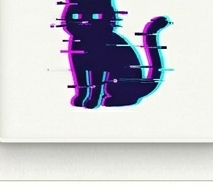
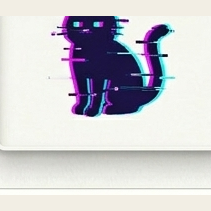
fix: 8가지 사용자 피드백 반영 (1·2·3·4·5·7·8)
1) 가장 인기 있는 사진 카드 — h-44 wide → aspect-[3/4] portrait. 한 장 제대로.
   누르면 작품 디테일 (이미 동작). 명조 italic 제목.

2) 페르소나 PNG 재크롭 — 카드 외곽 안쪽 + 정사각 캔버스 가운데 paste.
   머리/더듬이 안 잘리고 PDF 톤 카드 베이지 배경 (#f2eee4) 통일.
   SettingsSheet "10자아" → "냥이 페르소나" 라벨 변경.

3) 일일 키워드 (확인) — daily-keyword.js는 이미 날짜 기반 deterministic.
   50개 풀에서 매일 자동 추천 (4/28 → 같은 키워드 모두에게).

4) 별자리 시각 보강 — NearbyConstellation.
   흰 배경 → radial-gradient 어두운 밤하늘 (#232a3e → #0a0c14).
   별 8개 트윙클 애니메이션 (3.6s ease).
   가운데 카든냥 글로우 펄스 (3.2s).
   주변 사진 photo-glow 애니메이션 (각자 다른 delay).
   거리 링/라벨 흰색 톤.

5) 필름 탭 통합 — '롤 / 일주일 / 월별' → '롤 / 캘린더' (월별 그리드).
   sessionStorage 'week' 저장된 사용자 자동 'roll' fallback.

7) 프로필 사진 vs 인기 사진 겹침 해결 —
   stats.topArtwork.id === profilePhoto.id면 인기 사진 카드 숨김.

8) 봇 인물 사진 배제 — linen 봇 작품 2개 교체.
   '아빠와 딸의 뒷모습' → '닫힌 셔터의 텍스처'
   '버스 정류장의 둘' → '버스 정류장의 빈 의자'

(이슈 6 — 4컷 그리드/인기 사진 분리 — 1·7과 함께 처리됨)

Changed region(s): [[0.2275, 0.0, 0.8246, 0.5882], [0.0, 0.6952, 1.0, 0.8556], [0.0, 0.9626, 1.0, 0.9893]]

diff --git a/src/components/NearbyConstellation.jsx b/src/components/NearbyConstellation.jsx
@@ -58,33 +58,95 @@ export default function NearbyConstellation({
     return { ...p, x, y };
   });
 
+  // 별 흩뿌림 — 배경 장식 (deterministic 위치)
+  const stars = [
+    [size * 0.10, size * 0.18, 1.4, 0.7, '0s'],
+    [size * 0.86, size * 0.12, 2, 0.85, '0.4s'],
+    [size * 0.92, size * 0.40, 1.2, 0.6, '0.8s'],
+    [size * 0.06, size * 0.55, 1.8, 0.7, '1.2s'],
+    [size * 0.18, size * 0.88, 1.4, 0.6, '1.6s'],
+    [size * 0.78, size * 0.92, 1.6, 0.7, '2.0s'],
+    [size * 0.95, size * 0.78, 1.1, 0.5, '0.6s'],
+    [size * 0.04, size * 0.30, 1.3, 0.6, '1.4s'],
+  ];
+
   return (
-    <div className="relative mx-auto select-none" style={{ width: size, height: size }}>
+    <div
+      className="relative mx-auto select-none overflow-hidden rounded-[24px]"
+      style={{
+        width: size,
+        height: size,
+        background: 'radial-gradient(circle at 50% 35%, #232a3e 0%, #161927 55%, #0a0c14 100%)',
+      }}
+    >
+      <style>{`
+        @keyframes kadennyang-twinkle {
+          0%, 100% { opacity: 0.35; transform: scale(0.85); }
+          50% { opacity: 1; transform: scale(1.15); }
+        }
+        @keyframes kadennyang-glow {
+          0%, 100% { opacity: 0.5; transform: scale(1); }
+          50% { opacity: 0.85; transform: scale(1.08); }
+        }
+        @keyframes kadennyang-photo-glow {
+          0%, 100% { box-shadow: 0 0 0 2px rgba(255,255,255,0.85), 0 0 12px rgba(255,220,150,0.18); }
+          50% { box-shadow: 0 0 0 2px rgba(255,255,255,0.95), 0 0 22px rgba(255,220,150,0.45); }
+        }
+      `}</style>
+
+      {/* 별 흩뿌림 */}
+      {stars.map(([sx, sy, sr, opacity, delay], i) => (
+        <span
+          key={i}
+          className="pointer-events-none absolute rounded-full bg-white"
+          style={{
+            left: sx - sr,
+            top: sy - sr,
+            width: sr * 2,
+            height: sr * 2,
+            opacity,
+            animation: `kadennyang-twinkle 3.6s ease-in-out infinite`,
+            animationDelay: delay,
+          }}
+        />
+      ))}
+
       {/* 거리 링 */}
-      <svg width={size} height={size} className="absolute inset-0 pointer-events-none">
-        <g stroke="var(--border)" fill="none" strokeDasharray="2 5">
+      <svg width={size} height={size} className="pointer-events-none absolute inset-0">
+        <g stroke="rgba(255,255,255,0.18)" fill="none" strokeDasharray="2 5">
           <circle cx={half} cy={half} r={radiusFor(500)} />
           <circle cx={half} cy={half} r={radiusFor(2000)} />
           <circle cx={half} cy={half} r={maxR} />
         </g>
-        <g fill="var(--text-faint)" fontSize="9.5" fontWeight="600" letterSpacing="0.04em">
+        <g fill="rgba(255,255,255,0.55)" fontSize="9.5" fontWeight="600" letterSpacing="0.04em">
           <text x={half + 4} y={half - radiusFor(500) - 3}>500m</text>
           <text x={half + 4} y={half - radiusFor(2000) - 3}>2km</text>
           <text x={half + 4} y={half - maxR - 3}>5km+</text>
         </g>
       </svg>
 
-      {/* 가운데 카든냥 = 내 위치 */}
+      {/* 가운데 카든냥 = 내 위치 — 글로우 펄스 */}
+      <span
+        className="pointer-events-none absolute z-10 rounded-full"
+        style={{
+          left: half - 60,
+          top: half - 60,
+          width: 120,
+          height: 120,
+          background: 'radial-gradient(circle, rgba(255,220,150,0.45) 0%, rgba(255,220,150,0) 70%)',
+          animation: 'kadennyang-glow 3.2s ease-in-out infinite',
+        }}
+      />
       <div
-        className="absolute z-20 flex items-center justify-center rounded-full bg-[var(--ink)] text-[var(--bg)] shadow-[0_6px_18px_rgba(0,0,0,0.18)]"
+        className="absolute z-20 flex items-center justify-center rounded-full bg-white text-[var(--ink)] shadow-[0_8px_24px_rgba(0,0,0,0.4)]"
         style={{ left: half - 40, top: half - 40, width: 80, height: 80 }}
         aria-label="내 위치"
       >
         <CatPhotographer size={54} />
       </div>
 
-      {/* 주변 사진 */}
-      {positioned.map((p) => {
+      {/* 주변 사진 — 별처럼 반짝임 */}
+      {positioned.map((p, i) => {
         const photoSize = 56;
         return (
           <button
@@ -95,11 +157,12 @@ export default function NearbyConstellation({
             style={{ left: p.x - photoSize / 2, top: p.y - photoSize / 2 }}
           >
             <div
-              className="overflow-hidden rounded-full bg-[var(--surface-2)]"
+              className="overflow-hidden rounded-full bg-white/10"
               style={{
                 width: photoSize,
                 height: photoSize,
-                boxShadow: '0 0 0 2px var(--bg), 0 4px 10px rgba(0,0,0,0.2)',
+                animation: `kadennyang-photo-glow ${3.2 + (i % 4) * 0.4}s ease-in-out infinite`,
+                animationDelay: `${(i * 0.3) % 1.6}s`,
               }}
             >
               {p.imageUrl ? (
@@ -113,7 +176,7 @@ export default function NearbyConstellation({
                 <div className="h-full w-full" />
               )}
             </div>
-            <span className="mt-1 whitespace-nowrap rounded-full bg-[var(--ink)] px-1.5 py-[2px] text-[9px] font-bold leading-none text-[var(--bg)]">
+            <span className="mt-1 whitespace-nowrap rounded-full bg-white/95 px-1.5 py-[2px] text-[9px] font-bold leading-none text-[var(--ink)]">
               {formatDistance(p.distance)}
             </span>
           </button>

diff --git a/src/screens/PersonExhibition.jsx b/src/screens/PersonExhibition.jsx
@@ -358,26 +358,38 @@ export default function PersonExhibition({ userId: viewedId, setScreen, openArtw
           )}
         </section>
 
-        {stats.topArtwork && stats.totalHype > 0 && (
-          <section className="rounded-[24px] bg-[var(--surface)] p-3 shadow-[0_0_0_1px_var(--border)]">
-            <button
-              type="button"
-              onClick={() => openArtwork(stats.topArtwork.id)}
-              className="block w-full text-left"
-            >
-              <div className="mb-2 flex items-center justify-between px-1">
-                <p className="text-[10px] font-semibold tracking-[0.16em] text-[var(--text-muted)]">가장 인기 있는 사진</p>
-                <span className="inline-flex items-center gap-1 rounded-full bg-[var(--ink)] px-2 py-0.5 text-[10px] font-semibold text-white">
-                  <IconHype size={11} filled /> {getHypeCount(stats.topArtwork.id)}
-                </span>
-              </div>
-              <div className="overflow-hidden rounded-[18px]">
-                <ImageBox src={stats.topArtwork.imageUrl} alt={stats.topArtwork.title} className="h-44" />
-              </div>
-              <p className="mt-2 px-1 text-sm font-bold tracking-[-0.04em]">{stats.topArtwork.title || '제목 없음'}</p>
-            </button>
-          </section>
-        )}
+        {/* 가장 인기 있는 사진 — 프로필 사진(25번째 or 첫 사진)과 겹치지 않을 때만 표시.
+            한 장 제대로 보이게 portrait 3:4. 누르면 작품 디테일. */}
+        {(() => {
+          const profilePhotoId = (twentyFiveArt || works[0])?.id;
+          const showTopArt =
+            stats.topArtwork &&
+            stats.totalHype > 0 &&
+            stats.topArtwork.id !== profilePhotoId;
+          if (!showTopArt) return null;
+          return (
+            <section className="rounded-[24px] bg-[var(--surface)] p-3 shadow-[0_0_0_1px_var(--border)]">
+              <button
+                type="button"
+                onClick={() => openArtwork(stats.topArtwork.id)}
+                className="block w-full text-left"
+              >
+                <div className="mb-2 flex items-center justify-between px-1">
+                  <p className="text-[10px] font-semibold tracking-[0.16em] text-[var(--text-muted)]">가장 인기 있는 사진</p>
+                  <span className="inline-flex items-center gap-1 rounded-full bg-[var(--ink)] px-2 py-0.5 text-[10px] font-semibold text-white">
+                    <IconHype size={11} filled /> {getHypeCount(stats.topArtwork.id)}
+                  </span>
+                </div>
+                <div className="overflow-hidden rounded-[18px]">
+                  <ImageBox src={stats.topArtwork.imageUrl} alt={stats.topArtwork.title} className="aspect-[3/4]" />
+                </div>
+                <p className="font-display mt-3 px-1 text-center text-[16px] font-extrabold italic tracking-[-0.05em]">
+                  {stats.topArtwork.title || '제목 없음'}
+                </p>
+              </button>
+            </section>
+          );
+        })()}
 
         <section>
           <div className="mb-3 flex items-center justify-between">

diff --git a/src/lib/bot-seed.js b/src/lib/bot-seed.js
@@ -99,9 +99,9 @@ const BOT_ARTWORK_BLUEPRINTS = [
   { user_id: 'bot:linen', title: '버스가 지나가고 남은 자리', daily_vision: '천천히', url: 'https://images.unsplash.com/photo-1473093295043-cdd812d0e601?auto=format&fit=crop&w=900&q=80', d: 1 },
   { user_id: 'bot:linen', title: '어떤 집의 창문',           daily_vision: '동네',  url: 'https://images.unsplash.com/photo-1496317899792-9d7dbcd928a1?auto=format&fit=crop&w=900&q=80', d: 5 },
   { user_id: 'bot:linen', title: '필름이 한 칸 비었던 날',    daily_vision: '필름',  url: 'https://images.unsplash.com/photo-1444212477490-ca407925329e?auto=format&fit=crop&w=900&q=80', d: 12 },
-  { user_id: 'bot:linen', title: '아빠와 딸의 뒷모습',        daily_vision: '뒷모습', url: 'https://images.unsplash.com/photo-1517022812141-23620dba5c23?auto=format&fit=crop&w=900&q=80', d: 14 },
-  { user_id: 'bot:linen', title: '주말 시장 한가운데',        daily_vision: '주말 시장', url: 'https://images.unsplash.com/photo-1488459716781-31db52582fe9?auto=format&fit=crop&w=900&q=80', d: 16 },
-  { user_id: 'bot:linen', title: '버스 정류장의 둘',          daily_vision: '둘',    url: 'https://images.unsplash.com/photo-1517959105821-eaf2591984ca?auto=format&fit=crop&w=900&q=80', d: 18 },
+  { user_id: 'bot:linen', title: '닫힌 셔터의 텍스처',         daily_vision: '동네',  url: 'https://images.unsplash.com/photo-1493514789931-586cb221d7a7?auto=format&fit=crop&w=900&q=80', d: 14 },
+  { user_id: 'bot:linen', title: '주말 시장 빈 좌판',          daily_vision: '주말 시장', url: 'https://images.unsplash.com/photo-1488459716781-31db52582fe9?auto=format&fit=crop&w=900&q=80', d: 16 },
+  { user_id: 'bot:linen', title: '버스 정류장의 빈 의자',      daily_vision: '천천히',    url: 'https://images.unsplash.com/photo-1543353071-873f17a7a088?auto=format&fit=crop&w=900&q=80', d: 18 },
   { user_id: 'bot:linen', title: '동네 책방의 노란 창',       daily_vision: '동네',  url: 'https://images.unsplash.com/photo-1521587760476-6c12a4b040da?auto=format&fit=crop&w=900&q=80', d: 21 },
 
   // ── 느와르 (bot:noir) — 야경, 비, 도시, 네온 ──

diff --git a/src/screens/CalendarScreen.jsx b/src/screens/CalendarScreen.jsx
@@ -91,9 +91,13 @@ export default function CalendarScreen({ setScreen, openArtwork }) {
 
   const monthShort = ['JAN','FEB','MAR','APR','MAY','JUN','JUL','AUG','SEP','OCT','NOV','DEC'][now.getMonth()];
 
-  // 상단 탭 — 롤(25칸 진행률) / 일주일 / 월별. 마지막 선택 기억.
+  // 상단 탭 — 롤(25칸 진행률) / 캘린더(월별 그리드 = 위클리 row). 마지막 선택 기억.
+  const VALID_FILM_VIEWS = ['roll', 'month'];
   const [filmView, setFilmView] = useState(() => {
-    try { return sessionStorage.getItem('kadennyang:film:view') || 'roll'; } catch { return 'roll'; }
+    try {
+      const v = sessionStorage.getItem('kadennyang:film:view');
+      return VALID_FILM_VIEWS.includes(v) ? v : 'roll';
+    } catch { return 'roll'; }
   });
   useEffect(() => {
     try { sessionStorage.setItem('kadennyang:film:view', filmView); } catch {
@@ -107,8 +111,7 @@ export default function CalendarScreen({ setScreen, openArtwork }) {
       <div className="sticky top-11 z-30 -mx-3 flex items-center gap-1 border-b border-[var(--border)] bg-[var(--bg)] px-3">
         {[
           { id: 'roll', label: '롤' },
-          { id: 'week', label: '일주일' },
-          { id: 'month', label: '월별' },
+          { id: 'month', label: '캘린더' },
         ].map((t) => (
           <button
             key={t.id}

diff --git a/src/components/SettingsSheet.jsx b/src/components/SettingsSheet.jsx
@@ -57,7 +57,7 @@ export default function SettingsSheet({ onClose, onMessages, onLogout, extraItem
           <div className="rounded-[14px] px-3 py-3">
             <div className="mb-2 flex items-baseline justify-between">
               <p className="text-[12px] font-bold tracking-[-0.04em]">오늘의 냥이</p>
-              <p className="text-[10px] text-[var(--text-muted)]">10자아</p>
+              <p className="text-[10px] text-[var(--text-muted)]">냥이 페르소나</p>
             </div>
             <div className="grid grid-cols-5 gap-1.5">
               {themes.map((t) => {
